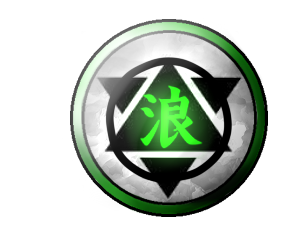
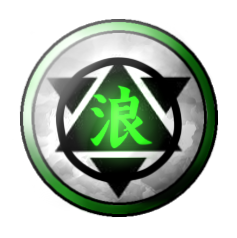
fixed image, added image border, changed font colors

diff --git a/css/styles.css b/css/styles.css
@@ -21,9 +21,15 @@ h3{
 }
 
 p{
-    color: white;
+    color: silver;
     
 }
+img{
+    border-radius: 50%;
+    border: 5px solid silver;
+  
+}
+
 .about-section{
     text-align: left;
     color:white;
@@ -38,6 +44,8 @@ p{
 .contact-section{
     text-align: center;
 }
+
+
 /*
 ul{
     text-align: left;
